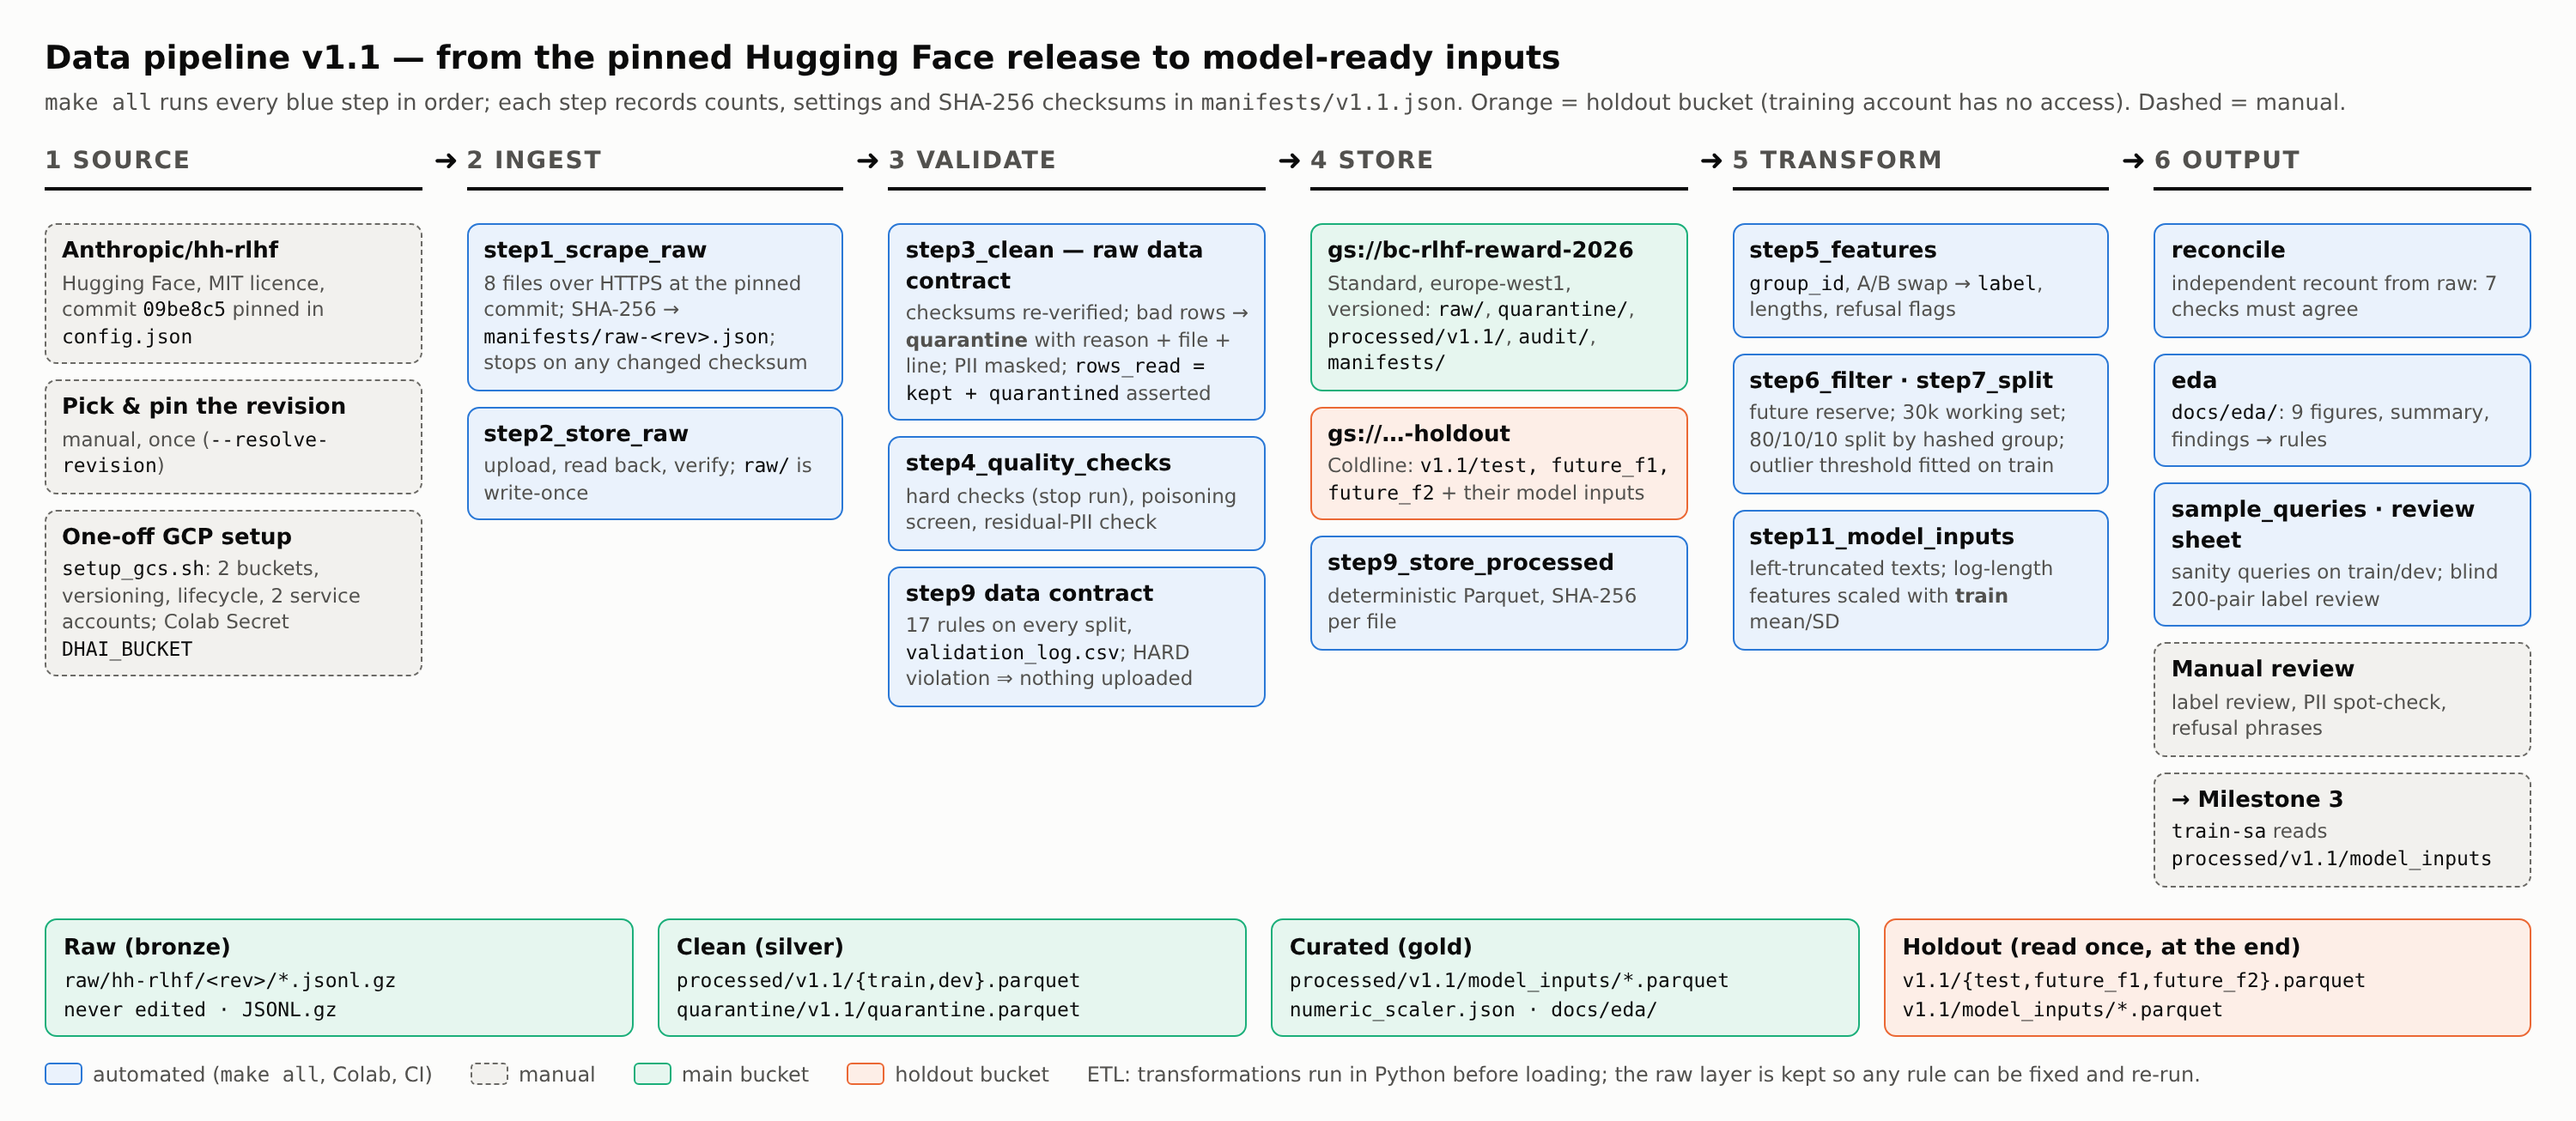
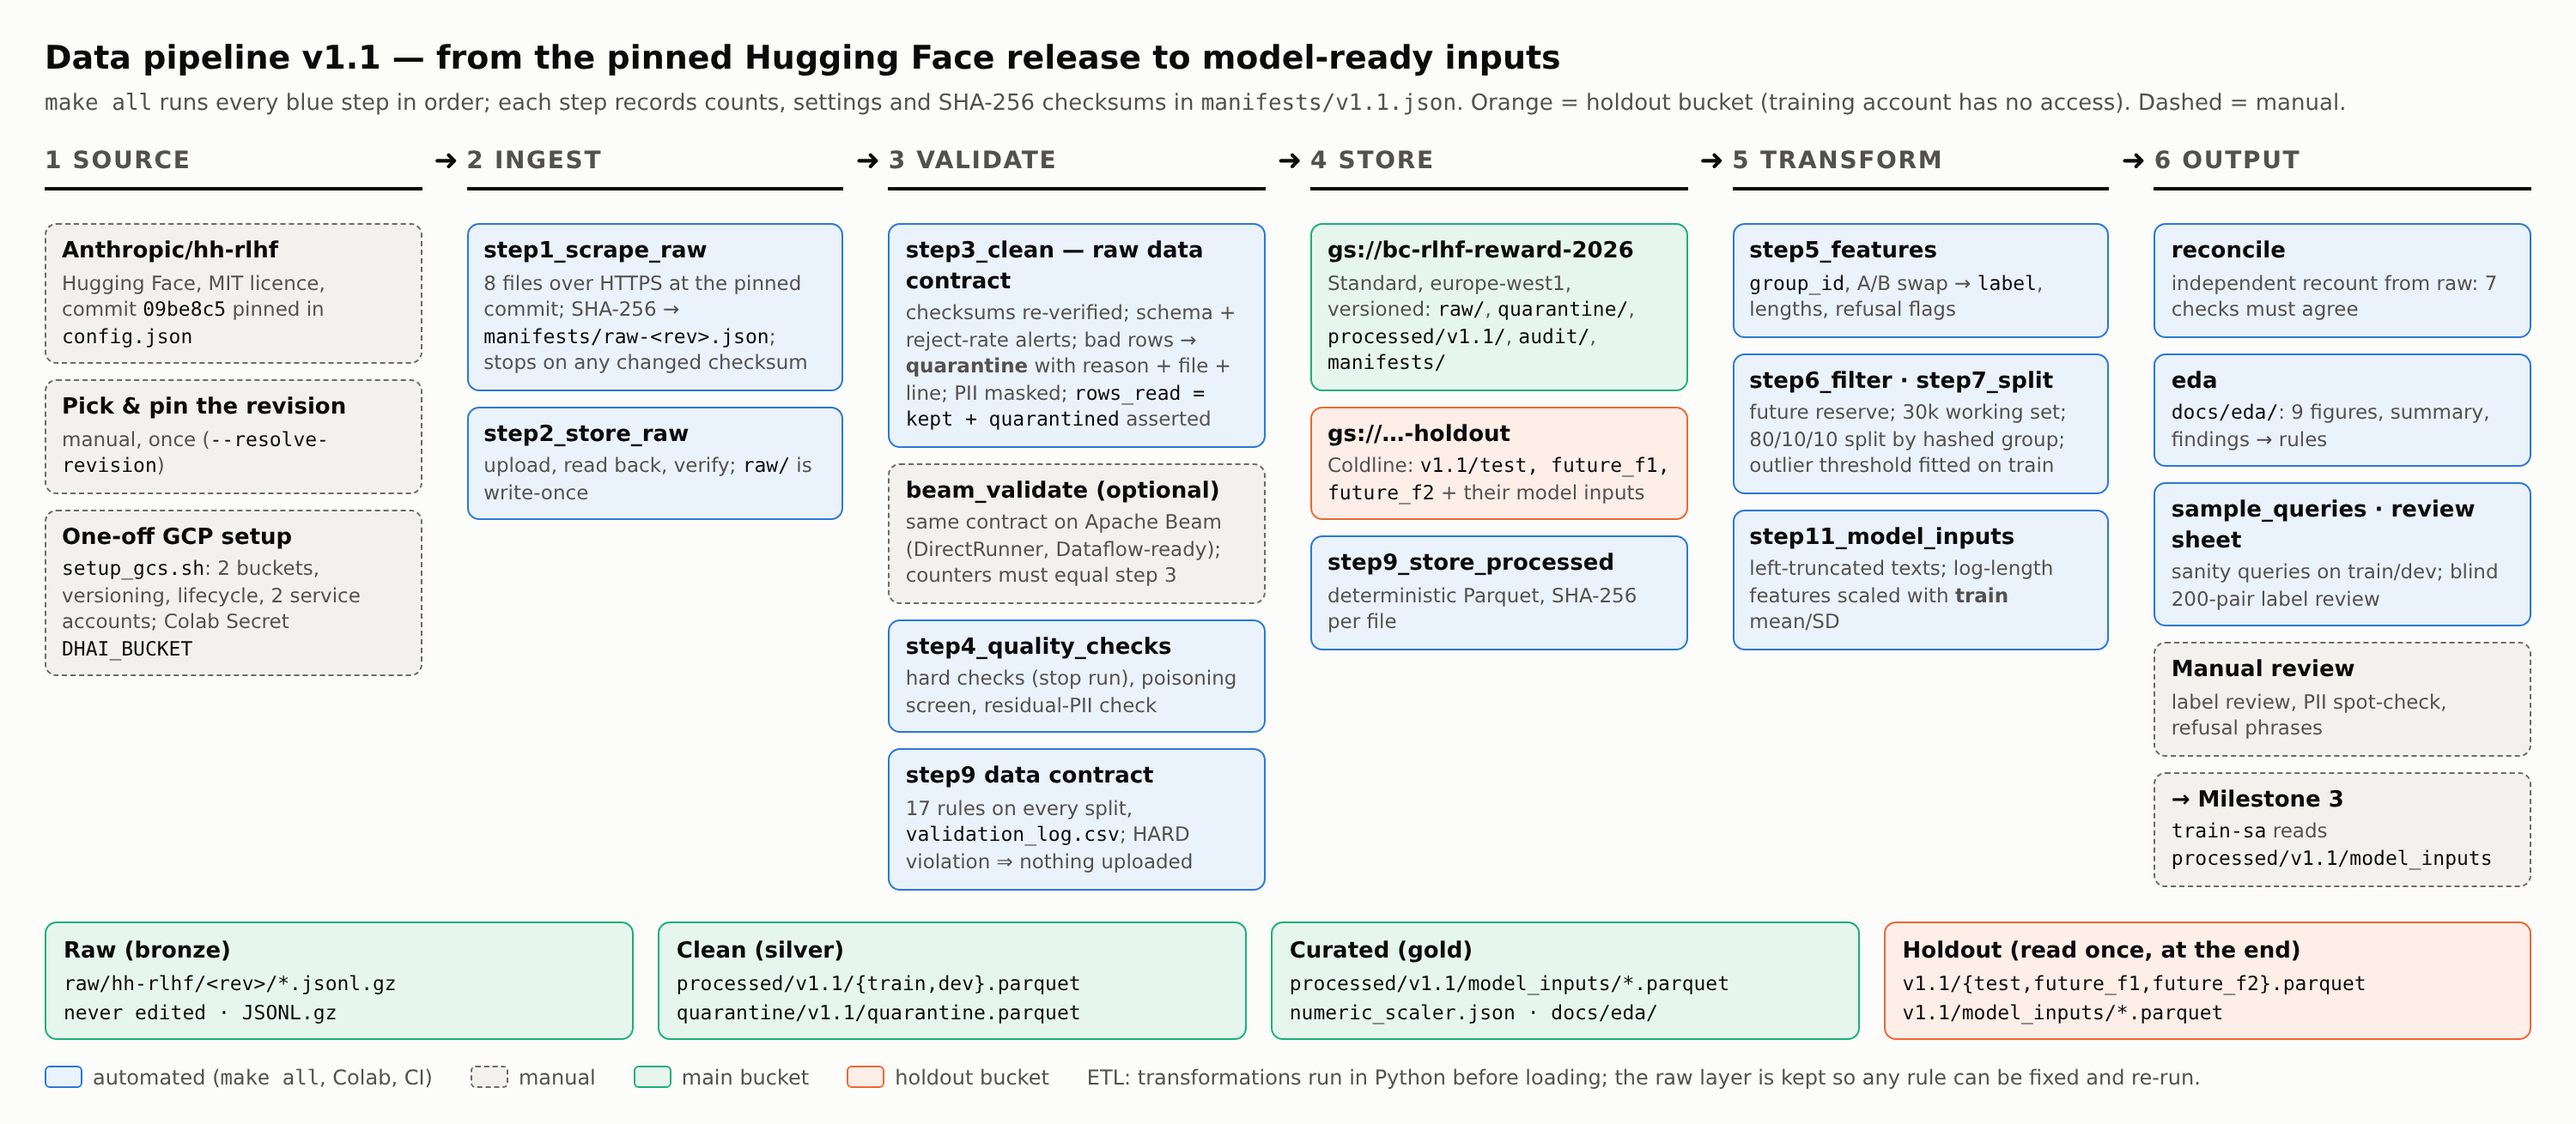
README and diagram: Lecture 6 qualities, Beam check, alerts
Counts updated (43 tests); architecture diagram shows the optional Beam check and alerts.

diff --git a/docs/architecture_m2.html b/docs/architecture_m2.html
@@ -52,7 +52,8 @@
   </div>
   <div class="col">
     <div class="head">3 Validate</div>
-    <div class="box"><b>step3_clean — raw data contract</b><div class="d">checksums re-verified; bad rows → <b>quarantine</b> with reason + file + line; PII masked; <code>rows_read = kept + quarantined</code> asserted</div></div>
+    <div class="box"><b>step3_clean — raw data contract</b><div class="d">checksums re-verified; schema + reject-rate alerts; bad rows → <b>quarantine</b> with reason + file + line; PII masked; <code>rows_read = kept + quarantined</code> asserted</div></div>
+    <div class="box man"><b>beam_validate (optional)</b><div class="d">same contract on Apache Beam (DirectRunner, Dataflow-ready); counters must equal step 3</div></div>
     <div class="box"><b>step4_quality_checks</b><div class="d">hard checks (stop run), poisoning screen, residual-PII check</div></div>
     <div class="box"><b>step9 data contract</b><div class="d">17 rules on every split, <code>validation_log.csv</code>; HARD violation ⇒ nothing uploaded</div></div>
   </div>

diff --git a/README.md b/README.md
@@ -11,7 +11,7 @@
 | Validation that fails loudly | `src/contract.py`: raw contract in step 3 (bad rows go to a **quarantine** with reason, file and line), 17-rule processed contract in step 9 (`audit/v1.1/validation_log.csv`; a HARD violation stops the run before anything is uploaded) |
 | Cleaning and transformation | step 3 (normalise, PII masking, 7 quarantine reasons), step 5 (A/B swap, features), step 7 (train-fitted outlier flag), **step 11** (model-ready inputs: left-truncated contexts, log-length features scaled with the train mean/SD) |
 | Second method / reconciliation | `src/reconcile.py` (`make reconcile`): recounts everything from the raw files with plain Python; 7 checks must agree |
-| Reproducibility | pinned data commit and libraries, hash-based splits, byte-identical reruns (tested), **40 tests** and an offline demo run on every push by GitHub Actions (`.github/workflows/ci.yml`) |
+| Reproducibility | pinned data commit and libraries, hash-based splits, byte-identical reruns (tested), **43 tests** and an offline demo run on every push by GitHub Actions (`.github/workflows/ci.yml`) |
 | Changes since v1.0 | [M2.3](#m23-changes-since-v10-and-why) |
 
 ### M2.1 Pipeline architecture
@@ -41,6 +41,19 @@ All numbers come from `make eda` on the real data (`docs/eda/eda_summary.json`).
 | 11 | Week 4 inference: rows are clustered in prompt groups, so intervals were recomputed with a **group bootstrap** (resampling prompt groups, not rows). Design effect only 1.07–1.15; helpful-base minus harmless-base length preference = 16.1 points (95% CI 14.3–17.8); the length effect **replicates on held-out dev** in all 4 subsets; all 4 tests stay significant after Benjamini–Hochberg | M3 reports group-bootstrap intervals; per-subset test accuracy can only be known to ±3–5 points, so smaller per-subset differences will not be claimed (fig. 8) |
 | 12 | Week 5 cross-validation: two scikit-learn Pipelines (a ColumnTransformer length × subset model, and a bag-of-words model whose vocabulary is learned inside each fold) give the same accuracy with random-row folds and with `GroupKFold` on prompt groups (gap ≤ 0.2 points), but group folds vary more between folds | GroupKFold for any CV in M3; bag of words (54.8% dev) is the first text baseline. No leak for reply-only features; a model that also reads the prompt could still memorise it (fig. 9) |
 | 13 | 304 pairs contain an e-mail and 724 a phone-like number | Masked as `[EMAIL]` / `[PHONE]`; step 4 checks that none is left |
+
+### Lecture 6: the six qualities of a trustworthy pipeline
+
+| Quality | How this pipeline has it |
+|---|---|
+| Repeatable | Pinned data commit and libraries, hash-based splits; a full rerun gives byte-identical Parquet files and EDA figures |
+| Idempotent | Every output file is replaced as a whole (like `WRITE_TRUNCATE`), never appended; `raw/` is write-once and refuses different bytes |
+| Observable | Counters printed by every step and stored in the manifest; quarantine with reasons; per-file quarantine rate and JSON-field fingerprint (schema drift) with alerts |
+| Testable | 43 unit tests on synthetic data with planted defects, run by GitHub Actions on every push |
+| Fails loudly | Checksum mismatch, row-accounting gap, HARD contract violation, reconciliation disagreement or (optionally) an alert stops the run |
+| Cost-aware | 79 MB batch: one Python process (~2.5 min) instead of Dataflow workers; Colab and CI are free; buckets are a few hundred MB with lifecycle rules |
+
+**Apache Beam (optional, `make beam`).** `src/beam_validate.py` runs step 3's data contract as a Beam pipeline: a file-reading `DoFn`, a `Validate` `DoFn` with a tagged `bad` output, Beam `Metrics` counters and a `CombinePerKey` for duplicates. It then compares every counter with the pandas step 3. On the real data all 10 counts agree (169,352 read, 168,029 kept, 1,323 quarantined, by reason). The comparison earned its place: in the first version, Beam's built-in `.gz` reading returned only 44,044 rows, and the mismatch exposed it at once. The code is Dataflow-ready (`--runner DataflowRunner` with `apache-beam[gcp]`), but it is deliberately not run there, because at this size the workers would cost more to start than the job takes on one machine.
 
 ### Leakage audit (Kapoor & Narayanan, 2023)
 
@@ -120,7 +133,7 @@ The sections below explain each answer in more detail.
 !DHAI_BUCKET= make demo && echo "demo OK"
 ```
 
-It should end with `OK` (40 tests passed) and `demo OK` (the whole pipeline, steps 1–11, the reconciliation and the EDA, run on fake data with planted problems). Nothing touches Google Cloud. The same two commands run on every push in GitHub Actions.
+It should end with `OK` (43 tests passed; the Apache Beam test runs when `requirements-beam.txt` is installed, as in CI) and `demo OK` (the whole pipeline, steps 1–11, the reconciliation and the EDA, run on fake data with planted problems). Nothing touches Google Cloud. The same two commands run on every push in GitHub Actions.
 
 **Option 2: the full pipeline on the real data.** [![Open in Colab](https://colab.research.google.com/assets/colab-badge.svg)](https://colab.research.google.com/github/bounchun/rlhf-reward-model-pipeline/blob/main/notebooks/run_pipeline_colab.ipynb)
 1. Click the badge, then **File → Save a copy in Drive**.
@@ -204,7 +217,7 @@ I followed the module's Milestone 1 checklist and wrote one Python script for ea
 | **Sample queries** | `sample_queries.py`. A few pandas queries on the stored train/dev files: split sizes and label balance, subset mix, conversation length, length bias, refusals, outliers, and looking up one pair by its `pair_id`. They check that the stored data looks right. They never touch the holdout bucket. |
 | **Data validation** | `step3_clean.py` re-checks the raw file checksums and applies 5 cleaning rules, counting what each one drops. `step4_quality_checks.py` stops the run if any basic check fails. `step7_split.py` checks that no conversation group appears in two splits, and `step9_store_processed.py` checks the final columns and overlaps again before uploading. |
 | **Quality checks** | `step4_quality_checks.py` looks for possible poisoning, personal data (emails, phone numbers) and length problems. `step10_review_sample.py` and `score_review.py` are for checking the labels by hand: the sheet of 200 pairs is created in v1.0.|
-| **Tests** | `tests/` has 40 unittest tests (22 from M1, 18 added in M2) that run on fake data with problems planted on purpose, to check that the pipeline catches each one (`make test`). |
+| **Tests** | `tests/` has 43 unittest tests (22 from M1, 21 added in M2) that run on fake data with problems planted on purpose, to check that the pipeline catches each one (`make test`). |
 
 
 The in-between files that each step creates (`data/interim/`) stay on my machine and are never committed to Git. Before the split happens they still include the test rows, so I don't upload them to a bucket that the training account can read.
@@ -230,7 +243,7 @@ scripts/setup_gcs.sh         creates both buckets, versioning, lifecycle, servic
 scripts/fill_readme.py       filled the README numbers from the manifest after the first run
 docs/img/                    screenshots of the real run
 notebooks/run_pipeline_colab.ipynb   Colab runner (auth + Secrets, no hard-coded credentials)
-tests/                       40 unittest tests on synthetic data with planted defects
+tests/                       43 unittest tests on synthetic data with planted defects
 manifests/                   committed dataset manifests (lineage)
 ```
 
@@ -676,7 +689,7 @@ Any new data added later (such as F1/F2) is a chance for poison to get in. As Le
 - [PyArrow: reading and writing Parquet](https://arrow.apache.org/docs/python/parquet.html)
 - [Hugging Face Hub: downloading dataset files](https://huggingface.co/docs/hub/en/datasets-downloading), for downloading at a pinned revision
 - [Python `hashlib`](https://docs.python.org/3/library/hashlib.html): SHA-256 for checksums and the hash-based split
-- [Python `unittest`](https://docs.python.org/3/library/unittest.html): the 40 tests
+- [Python `unittest`](https://docs.python.org/3/library/unittest.html): the 43 tests
 - [GNU Make manual](https://www.gnu.org/software/make/manual/): `make all`, `make test`, `make demo`
 
 ### 5. Versioning and documentation
